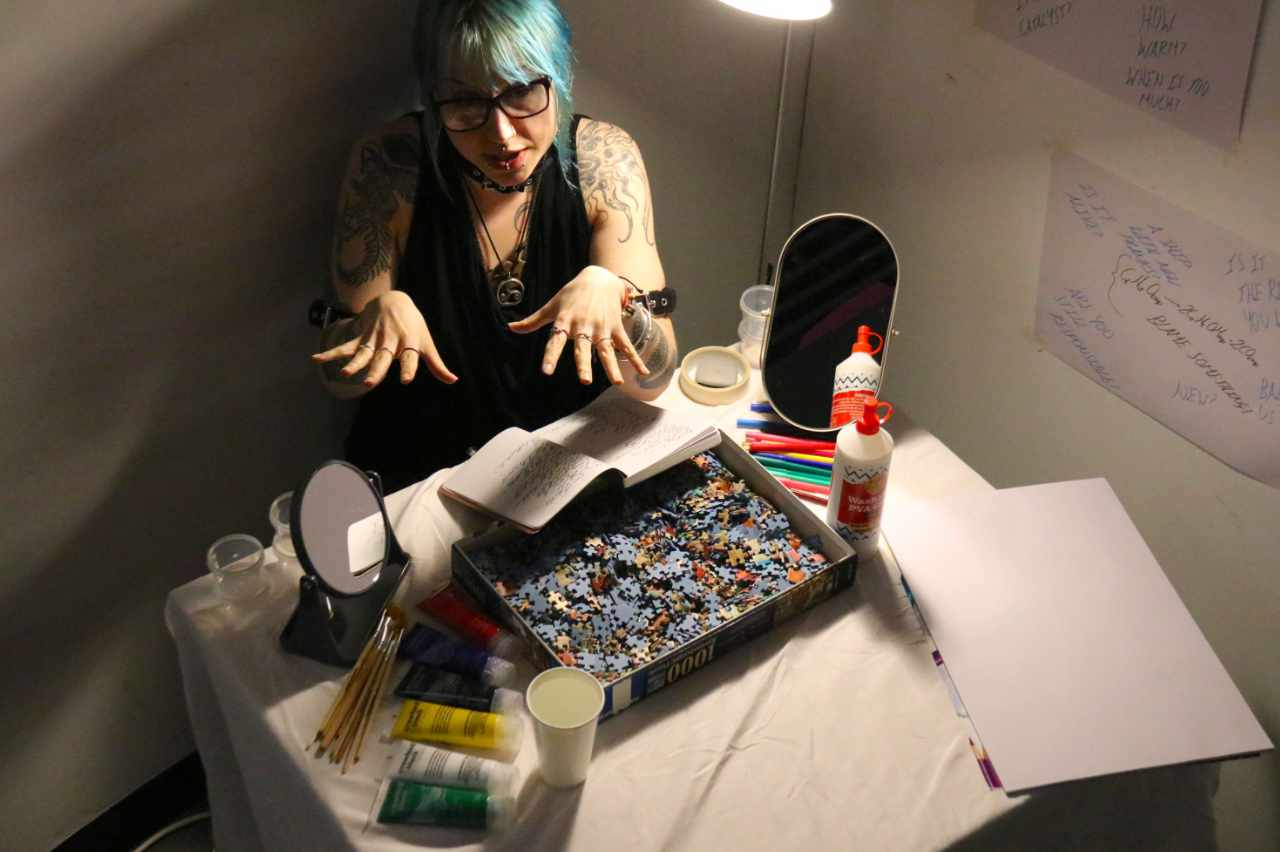
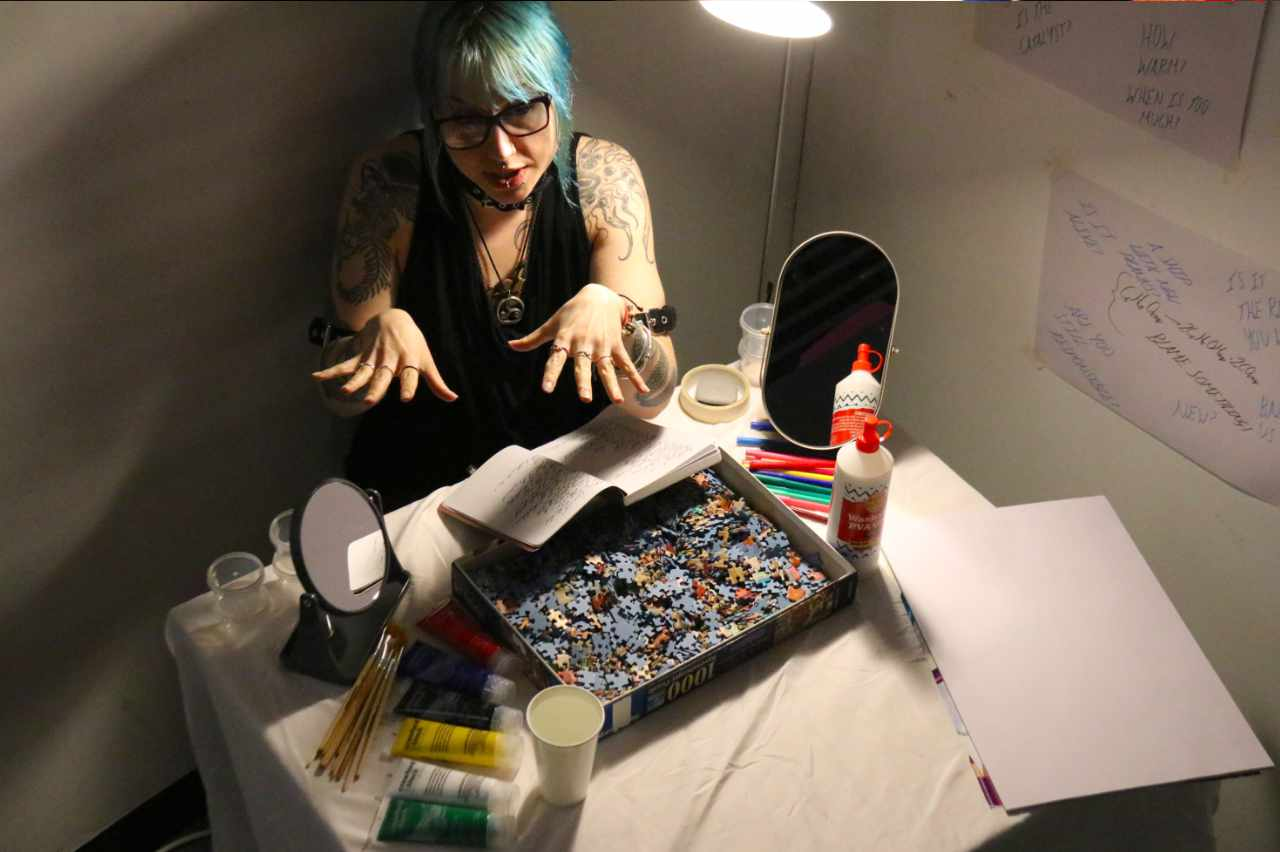
tweaks

diff --git a/galleries/2025-socex/index.md b/galleries/2025-socex/index.md
@@ -15,7 +15,7 @@ gallery:
     -   {file: "Matt1.jpg", artist: "Matt Rogerson (November 2025)"}
     -   {file: "Matt2.jpg", artist: "Matt Rogerson (November 2025)"}
     -   {file: "Gin1.jpg", artist: "Gin Niemtus (November 2025)"}
-    -   {file: "Gin1.jpg", artist: "Gin Niemtus (November 2025)"}
+    -   {file: "Gin2.jpg", artist: "Gin Niemtus (November 2025)"}
     -   {file: "Gemma1.jpg", artist: "Gemma Lees (November 2025)"}
     -   {file: "Gemma2.jpg", artist: "Gemma Lees (November 2025)"}
     -   {file: "Lydia1.jpg", artist: "Nightingale & Sage (November 2025)"}
@@ -23,7 +23,7 @@ gallery:
     -   {file: "Howard1.jpg", artist: "Howard Walmsley (November 2025)"}
     -   {file: "Howard2.jpg", artist: "Howard Walmsley (November 2025)"}
     -   {file: "Yuri1.jpg", artist: "Y Talking Nonsense (November 2025)"}
-    -   {file: "Yuri1.jpg", artist: "Y Talking Nonsense (November 2025)"}
+    -   {file: "Yuri2.jpg", artist: "Y Talking Nonsense (November 2025)"}
     -   {file: "ben_hodge.jpg", artist: "Ben Hodge (July 2025)"}
     -   {file: "james_moss.jpg", artist: "James Moss (July 2025)"}
     -   {file: "shahireh_sharif.jpg", artist: "Shahireh Sharif (July 2025)"}
